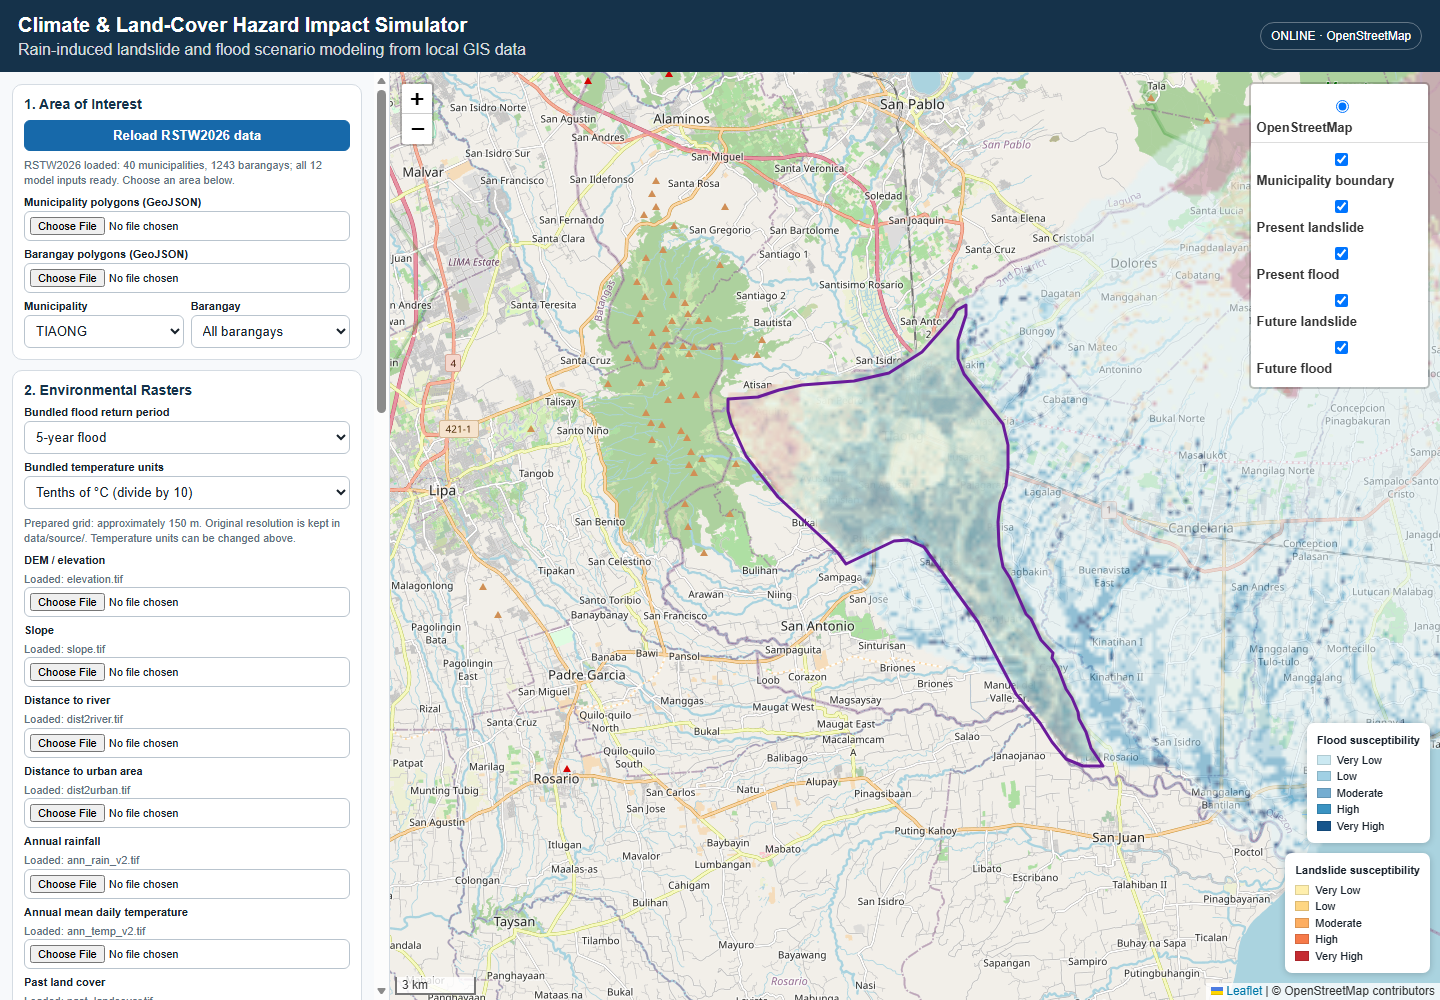
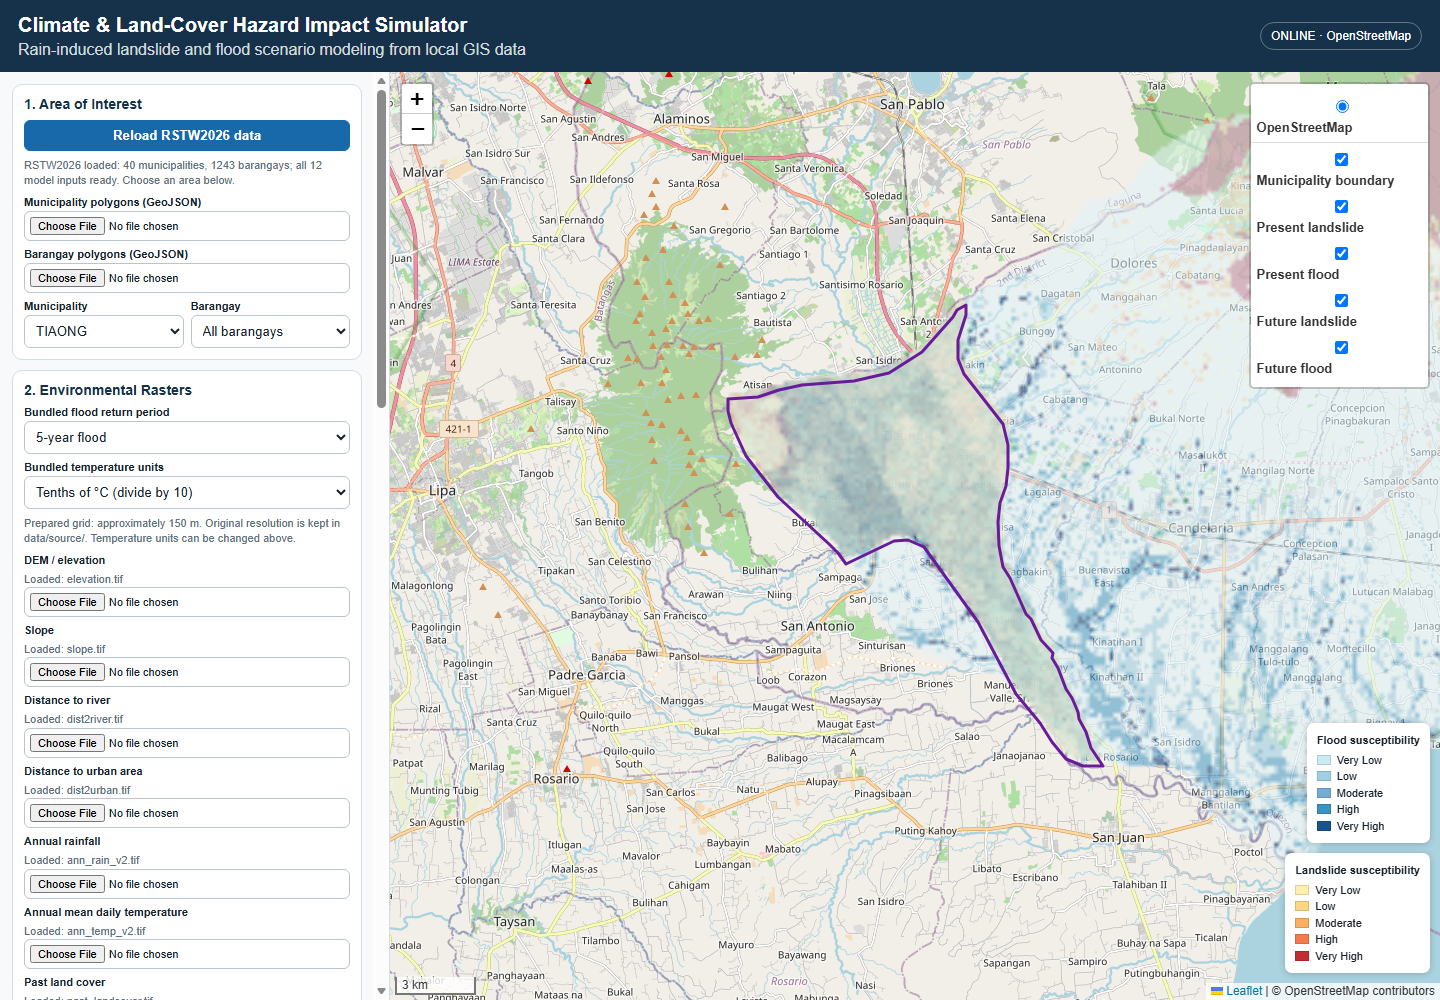
fix: preserve available hazard results when training coverage is missing

Changed region(s): [[0.5312, 0.341, 0.7812, 0.775]]

diff --git a/js/app.js b/js/app.js
@@ -1,12 +1,11 @@
 import { appState } from './state.js';
 import { loadDataset,loadDatasetRaster,scaleTemperature,removeIncompatibleBundledPredictors } from './dataset.js';
-import { createAreaMask } from './area-mask.js';
+import { runScenarioModels } from './scenario-runner.js';
 import { setStatus,setProgress,appendLog,setOnlineStatus,setDiagnostics,syncRangeAndNumber } from './ui.js';
 import { buildBoundaryIndex,municipalityNames,barangaysForMunicipality,getMunicipalityFeature,getBarangayFeature } from './boundaries.js';
 import { readGeoTiff,validateAlignedRasters,rasterCellCount } from './raster.js';
 import { validateScenario } from './scenario.js';
-import { projectFutureLandcover } from './landcover.js';
-import { buildTrainingSamples,trainHazardModel,predictHazardSurface,PREDICTOR_IDS } from './hazard-model.js';
+import { PREDICTOR_IDS } from './hazard-model.js';
 import { createMap,addOnlineOSM,addBoundaryLayer,fitFeature,addRasterOverlay,addLocalBasemap,createLegend,refreshLayerControl,selectBasemapMode } from './map.js';
 
 export const RASTER_DEFS=[
@@ -146,19 +145,42 @@ async function localBasemapChanged(file){
 }
 function scenarioFromUi(){return validateScenario({baselineYear:$('baselineYear').value,futureYear:$('futureYear').value,rainChange:$('rainValue').value,rainMode:$('rainMode').value,tempChange:$('tempValue').value,tempMode:$('tempMode').value,landcoverIntensity:$('lcValue').value});}
 
-export async function runCompleteScenario(){if(appState.running||loadingDataset)return;if(!appState.selection.municipality){setStatus('Select a Municipality before running the model.','error');throw new Error('Select a Municipality before running the model.');}appState.running=true;lockControls(true);try{
-  setProgress(0);setStatus('Validating aligned raster inputs…','info');const base=validateAlignedRasters(appState.rasters,requiredModelRasterIds());const scenario=scenarioFromUi(),geometry=currentGeometry();
-  const areaMask=createAreaMask(base,geometry);
-  await new Promise(resolve=>setTimeout(resolve,0));
-  setProgress(10);setStatus('Projecting future land cover internally…','info');appState.model.futureLandcover=projectFutureLandcover({pastRaster:appState.rasters.pastLC,presentRaster:appState.rasters.presentLC,geometry,areaMask,baselineYear:scenario.baselineYear,futureYear:scenario.futureYear,intensity:scenario.landcoverIntensity});appendLog('Future land cover calculated as an internal predictor. It is not displayed on the map.');
-  setProgress(25);setStatus('Training landslide Random Forest…','info');const lSamples=buildTrainingSamples({rasters:appState.rasters,hazardId:'landslide',geometry,areaMask,maxSamples:Number($('samples').value)});const lModel=trainHazardModel({samples:lSamples,trees:Number($('trees').value)});
-  appState.model.futureLandslide=await predictHazardSurface({rasters:appState.rasters,hazardId:'landslide',model:lModel,geometry,areaMask,futureLandcover:appState.model.futureLandcover,scenario,yieldFn:async p=>{setProgress(35+p*25);await new Promise(r=>setTimeout(r,0));}});removeLayer('future_landslide');appState.mapLayers.future_landslide=addRasterOverlay(LRuntime,appState.map,appState.model.futureLandslide,{kind:'landslide',opacity:.72});
-  setStatus('Training flood Random Forest…','info');const fSamples=buildTrainingSamples({rasters:appState.rasters,hazardId:'flood',geometry,areaMask,maxSamples:Number($('samples').value)});const fModel=trainHazardModel({samples:fSamples,trees:Number($('trees').value)});
-  appState.model.futureFlood=await predictHazardSurface({rasters:appState.rasters,hazardId:'flood',model:fModel,geometry,areaMask,futureLandcover:appState.model.futureLandcover,scenario,yieldFn:async p=>{setProgress(65+p*30);await new Promise(r=>setTimeout(r,0));}});removeLayer('future_flood');appState.mapLayers.future_flood=addRasterOverlay(LRuntime,appState.map,appState.model.futureFlood,{kind:'flood',opacity:.65});
-  if(landslideLegend)appState.map.removeControl(landslideLegend);if(floodLegend)appState.map.removeControl(floodLegend);landslideLegend=createLegend(LRuntime,'landslide').addTo(appState.map);floodLegend=createLegend(LRuntime,'flood').addTo(appState.map);refreshLayers();
-  const sampleSummary=s=>s.stats.targetKind==='susceptibility'?`${s.stats.used} used (${s.stats.valid} valid class cells)`:`${s.stats.used} used (${s.stats.positive} occurrence / ${s.stats.negative} nonoccurrence valid)`;
-  setDiagnostics(`<b>AOI:</b> ${appState.selection.barangay?`${appState.selection.barangay}, `:''}${appState.selection.municipality}<br><b>Landslide samples:</b> ${sampleSummary(lSamples)}<br><b>Flood samples:</b> ${sampleSummary(fSamples)}<br><b>Predictors:</b> ${lSamples.predictorIds.length}<br><b>Flood input:</b> ${appState.rasters.flood.name}<br><b>Output:</b> relative susceptibility scores 0–1; not calibrated probabilities.`);setProgress(100);setStatus('Scenario completed. Toggle baseline and future hazard layers on the map.','success');appendLog('Scenario complete.');
- }catch(e){setStatus(`Model stopped: ${e.message}`,'error');appendLog(e.stack||e.message);throw e;}finally{appState.running=false;lockControls(false);}}
+export async function runCompleteScenario(){
+  if(appState.running||loadingDataset)return;
+  if(!appState.selection.municipality){setStatus('Select a Municipality before running the model.','error');throw new Error('Select a Municipality before running the model.');}
+  appState.running=true;lockControls(true);clearFutureOutputs();refreshLayers();
+  try{
+    setStatus('Validating raster inputs…','info');
+    const result=await runScenarioModels({rasters:appState.rasters,geometry:currentGeometry(),scenario:scenarioFromUi(),trees:Number($('trees').value),maxSamples:Number($('samples').value),
+      onProgress:async(percent,message)=>{setProgress(percent);setStatus(message,'info');await new Promise(resolve=>setTimeout(resolve,0));},
+      onHazard:async(id,hazard)=>{
+        if(hazard.output){
+          appState.model[id==='landslide'?'futureLandslide':'futureFlood']=hazard.output;
+          appState.mapLayers[`future_${id}`]=addRasterOverlay(LRuntime,appState.map,hazard.output,{kind:id,opacity:id==='landslide'?.72:.65});
+          const legend=createLegend(LRuntime,id).addTo(appState.map);
+          if(id==='landslide')landslideLegend=legend;else floodLegend=legend;
+          appendLog(`${id} scenario completed: ${hazard.samples.stats.used} training samples.`);
+        }else appendLog(`${id} unavailable: ${hazard.error}`);
+        refreshLayers();
+      }
+    });
+    appState.model.futureLandcover=result.futureLandcover;
+    const escape=value=>String(value??'').replace(/[&<>"']/g,char=>({'&':'&amp;','<':'&lt;','>':'&gt;','"':'&quot;',"'":'&#39;'}[char]));
+    const area=`${appState.selection.barangay?`${appState.selection.barangay}, `:''}${appState.selection.municipality}`;
+    const details=Object.entries(result.hazards).map(([id,hazard])=>{
+      const s=hazard.samples.stats,title=id==='landslide'?'Landslide':'Flood';
+      return `<br><b>${title} (${escape(appState.rasters[id].name)}):</b> ${s.used} samples; ${s.areaCells} area cells, ${s.predictorValid} complete predictor cells, ${s.hazardValid} valid hazard cells, ${s.valid} overlapping cells.${hazard.error?`<br>${escape(hazard.error)}`:''}`;
+    }).join('');
+    setDiagnostics(`<b>AOI:</b> ${escape(area)}${details}<br><b>Output:</b> relative susceptibility scores 0–1; not calibrated probabilities.`);
+    const available=Object.entries(result.hazards).filter(([,hazard])=>hazard.output).map(([id])=>id);
+    const unavailable=Object.entries(result.hazards).filter(([,hazard])=>hazard.error).map(([id,hazard])=>`${id==='flood'?'Flood':'Landslide'} unavailable: ${hazard.error}`);
+    setProgress(100);
+    if(available.length===2)setStatus('Scenario completed. Toggle baseline and future hazard layers on the map.','success');
+    else if(available.length)setStatus(`${available[0]==='landslide'?'Landslide':'Flood'} scenario completed. ${unavailable.join(' ')}`,'info');
+    else setStatus(`No future hazard layers could be generated. ${unavailable.join(' ')}`,'error');
+  }catch(error){setStatus(`Model stopped: ${error.message}`,'error');appendLog(error.stack||error.message);throw error;}
+  finally{appState.running=false;lockControls(false);}
+}
 
 function updateNetworkState(){const online=navigator.onLine;if(!appState.map)return;const mode=selectBasemapMode({online,hasLocal:Boolean(localBasemapLayer)});if(mode==='osm'&&!osmLayer){osmLayer=addOnlineOSM(LRuntime,appState.map);osmLayer.on('tileerror',()=>{setOnlineStatus(false,'Neutral background');});}if(!online&&osmLayer&&appState.map.hasLayer(osmLayer))appState.map.removeLayer(osmLayer);if(online&&osmLayer&&!localBasemapLayer&&!appState.map.hasLayer(osmLayer))osmLayer.addTo(appState.map);setOnlineStatus(online,mode==='local'?'Local basemap':mode==='osm'?'OpenStreetMap':'Neutral background');refreshLayers();}
 function initRasterInputs(){

diff --git a/js/scenario-runner.js b/js/scenario-runner.js
@@ -1,0 +1,36 @@
+import { validateAlignedRasters } from './raster.js';
+import { createAreaMask } from './area-mask.js';
+import { projectFutureLandcover } from './landcover.js';
+import { PREDICTOR_IDS,OPTIONAL_PREDICTOR_IDS,buildTrainingSamples,trainHazardModel,predictHazardSurface } from './hazard-model.js';
+
+function noSampleReason(id,raster,stats){
+  if(!stats.areaCells)return 'No raster cell centers fall inside this area. Select a larger area or prepare a finer raster grid.';
+  if(!stats.hazardValid)return `No valid ${id} labels are available in ${raster.name} for the selected area. ${id==='flood'?'Choose another flood return period or an area with flood coverage.':'Choose an area with landslide coverage or supply a replacement raster.'}`;
+  if(!stats.predictorValid){
+    const missing=Object.entries(stats.missingByPredictor).filter(([,count])=>count>0).map(([key])=>key).join(', ');
+    return `Environmental predictors have no complete cells in the selected area. Check NoData coverage in ${missing}.`;
+  }
+  return `Valid ${id} labels in ${raster.name} do not overlap complete predictor cells in the selected area.`;
+}
+
+export async function runScenarioModels({rasters,geometry=null,areaMask=null,scenario,trees=35,maxSamples=1000,random=Math.random,onProgress=async()=>{},onHazard=async()=>{}}){
+  const base=validateAlignedRasters(rasters,[...PREDICTOR_IDS,...OPTIONAL_PREDICTOR_IDS.filter(id=>rasters[id]),'pastLC','landslide','flood']);
+  const mask=areaMask??createAreaMask(base,geometry);
+  await onProgress(10,'Projecting future land cover internally…');
+  const futureLandcover=projectFutureLandcover({pastRaster:rasters.pastLC,presentRaster:rasters.presentLC,geometry,areaMask:mask,baselineYear:scenario.baselineYear,futureYear:scenario.futureYear,intensity:scenario.landcoverIntensity,random});
+  const hazards={};
+  for(const [position,id] of ['landslide','flood'].entries()){
+    const start=position===0?25:65,end=position===0?60:95;
+    await onProgress(start,`Training ${id} Random Forest…`);
+    const samples=buildTrainingSamples({rasters,hazardId:id,geometry,areaMask:mask,maxSamples,random});
+    const result={samples,output:null,error:null};hazards[id]=result;
+    if(!samples.X.length){result.error=noSampleReason(id,rasters[id],samples.stats);await onHazard(id,result);continue;}
+    let model;
+    try{model=trainHazardModel({samples,trees,random});}
+    catch(error){result.error=`${id==='flood'?'Flood':'Landslide'} (${rasters[id].name}): ${error.message}`;await onHazard(id,result);continue;}
+    result.output=await predictHazardSurface({rasters,hazardId:id,model,geometry,areaMask:mask,futureLandcover,scenario,
+      yieldFn:async progress=>onProgress(start+(end-start)*progress,`Predicting future ${id} susceptibility…`)});
+    await onHazard(id,result);
+  }
+  return {futureLandcover,hazards};
+}

diff --git a/js/hazard-model.js b/js/hazard-model.js
@@ -16,18 +16,25 @@ export function buildTrainingSamples({rasters,hazardId,geometry=null,areaMask=nu
   const cap=Math.max(2,Math.floor(sampleLimit)); const perClass=Math.max(1,Math.floor(cap/2));
   const pos=[],neg=[];let seenPos=0,seenNeg=0,seenClass=0;
   const target=rasters[hazardId].target,classSamples=[],classified=target?.kind==='susceptibility';
+  let areaCells=0,predictorValid=0,hazardValid=0;
+  const missingByPredictor=Object.fromEntries(predictorIds.map(id=>[id,0]));
   for(let row=0;row<base.height;row++)for(let col=0;col<base.width;col++){
     const i=row*base.width+col;
     if(areaMask){if(!areaMask[i])continue;}else if(geometry){const [lon,lat]=pixelCenter(base,row,col);if(!pointInGeometry(lon,lat,geometry))continue;}
+    areaCells++;
+    const raw=Number(rasters[hazardId].data[i]),hasHazard=!isNoData(raw,rasters[hazardId].nodata);
+    if(hasHazard)hazardValid++;
     const values=predictorIds.map(id=>Number(rasters[id].data[i]));
-    if(values.some((v,k)=>isNoData(v,rasters[predictorIds[k]].nodata)))continue;
-    const raw=Number(rasters[hazardId].data[i]);if(isNoData(raw,rasters[hazardId].nodata))continue;
+    let hasPredictors=true;
+    for(let k=0;k<predictorIds.length;k++)if(isNoData(values[k],rasters[predictorIds[k]].nodata)){hasPredictors=false;missingByPredictor[predictorIds[k]]++;}
+    if(hasPredictors)predictorValid++;
+    if(!hasPredictors||!hasHazard)continue;
     const y=classified?(target.max===target.min?0:Math.max(0,Math.min(1,(raw-target.min)/(target.max-target.min)))):occurrence(raw,rasters[hazardId].nodata);
     if(classified){seenClass++;reservoirPush(classSamples,{x:values,y},cap,random,seenClass);continue;}
     const pair={x:values,y};if(y){seenPos++;reservoirPush(pos,pair,perClass,random,seenPos);}else{seenNeg++;reservoirPush(neg,pair,perClass,random,seenNeg);}
   }
   const combined=classified?classSamples:[...neg,...pos];
-  return {X:combined.map(p=>p.x),y:combined.map(p=>p.y),predictorIds,stats:{valid:classified?seenClass:seenPos+seenNeg,positive:seenPos,negative:seenNeg,used:combined.length,targetKind:classified?'susceptibility':'occurrence'}};
+  return {X:combined.map(p=>p.x),y:combined.map(p=>p.y),predictorIds,stats:{areaCells,predictorValid,hazardValid,missingByPredictor,valid:classified?seenClass:seenPos+seenNeg,positive:seenPos,negative:seenNeg,used:combined.length,targetKind:classified?'susceptibility':'occurrence'}};
 }
 
 export function trainHazardModel({samples,trees=35,random=Math.random}){

diff --git a/README.md b/README.md
@@ -22,6 +22,8 @@ The supplied temperature values are stored in tenths of °C, confirmed by the da
 
 The hazard files contain class maps, rather than event occurrence records. Bundled model targets are class values normalized to 0–1 over the valid range recorded in the manifest. Original NoData is preserved, including 0 in the landslide/25-year flood rasters and 3 in the 100-year flood raster; masked cells are not relabeled as nonoccurrence. Some small areas may contain insufficient valid cells or only one class; select a larger area when the model reports this. Confirm the source hazard class meanings before operational interpretation.
 
+Landslide and flood scenarios finish independently. If one hazard has no usable training cells or class variation, its explanation appears in the status and Diagnostics, while the available hazard layer remains visible. Diagnostics distinguish area cells, complete predictor cells, valid hazard labels and overlapping training cells. For example, **Magsaysay, Atimonan has no valid 25-year flood labels** in the supplied dataset; its landslide scenario can still run. Such missing coverage does not mean zero flood susceptibility.
+
 Distance to coast and flow accumulation join the model as optional predictors when loaded. Their removal buttons let you omit them. When a required input is replaced with data on another grid, incompatible bundled optional predictors are cleared automatically. Future land cover remains internal to the model.
 
 To regenerate the prepared files, install the development GIS requirements and run:
@@ -126,7 +128,7 @@ For local browser verification with an installed headless Edge/Chrome and a runn
 node tools/verify-dataset.mjs http://127.0.0.1:8765/
 ```
 
-An optional second argument selects the browser executable. This checks automatic loading, alignment, temperature scaling, barangay filtering, all flood return periods, a complete Tiaong scenario (5 trees / 200 samples), and clearing old outputs after input changes. The screenshot and report are saved in `docs/verification/`. The scenario reuses one rasterized area mask to avoid repeated polygon scans.
+An optional second argument selects the browser executable. This checks automatic loading, alignment, temperature scaling, barangay filtering, all flood return periods, a complete Tiaong scenario (5 trees / 200 samples), clearing old outputs after input changes, and the Magsaysay/Atimonan 25-year coverage gap (35 trees / 1,000 samples). Screenshots and the report are saved in `docs/verification/`. The scenario reuses one rasterized area mask to avoid repeated polygon scans.
 
 Pinned browser runtime versions:
 
